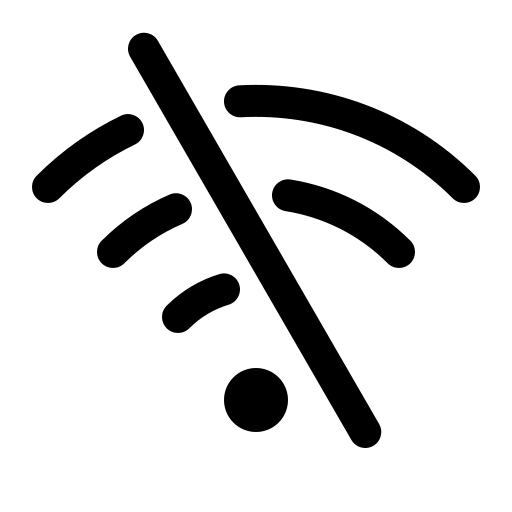
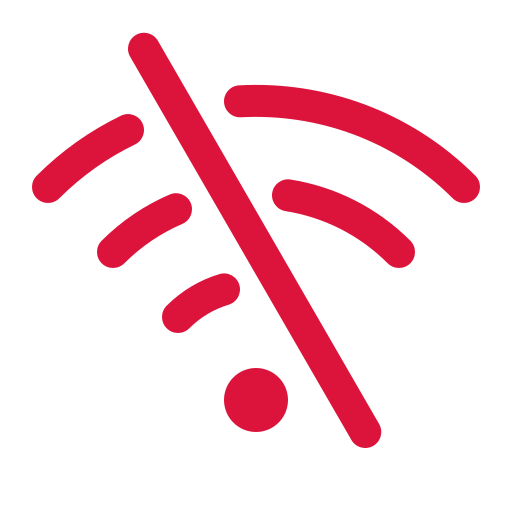
caralhada de coisa eu acho
só cor na verdade, e mentira esse negocio :P

diff --git a/src/assets/js/main.js b/src/assets/js/main.js
@@ -161,12 +161,18 @@ function updateHeader() {
 
     const bombaTexto = document.getElementById("estadoBomba");
     bombaTexto.innerText = (data["bomba_acionada"] ? "Ligada" : "Desligada");
+    bombaTexto.classList.remove("offlineText"); bombaTexto.classList.remove("onlineText");
+    bombaTexto.classList.add(data["bomba_acionada"] ? "onlineText" : "offlineText");
 
     const statusTexto = document.getElementById("statusConexao");
     const statusImage = document.getElementById("conexaoImg");
     statusTexto.innerText = (online ? "Você está online!" : "Você está offline.");
     statusImage.src = (online ? "assets/img/wifi.png" : "assets/img/no-wifi.png");
     statusImage.alt = (online ? "Ícone online" : "Ícone offline");
+    if (online) {
+        statusTexto.classList.remove("offlineText");
+        statusTexto.classList.add("onlineText");
+    }
 }
 
 /**
@@ -219,12 +225,12 @@ function createGraph() {
             datasets: [{
                 label: 'Umidade',
                 data: [],
-                borderColor: 'rgb(100, 149, 237)',
-                backgroundColor: 'rgba(33, 22, 249, 0.1)',
+                borderColor: 'rgb(0, 191, 255)',
+                backgroundColor: 'rgba(0, 191, 255, 0.1)',
                 tension: 0.4,
                 fill: true,
                 borderWidth: 3,
-                yAxisID: "umidY"
+                yAxisID: "umidY",
             }]
         },
         options: {
@@ -252,7 +258,7 @@ function createGraph() {
                                 content: "Umidade Mínima",
                                 display: false
                             },
-                            borderColor: "rgba(100, 149, 237, 0.8)",
+                            borderColor: "rgba(0, 191, 255, 0.4)",
                             borderDash: [10, 5],
                             borderWidth: 4,
                             pointRadius: 0,
@@ -275,7 +281,7 @@ function createGraph() {
                                 content: "Umidade Máxima",
                                 display: false
                             },
-                            borderColor: "rgba(100, 149, 237, 0.8)",
+                            borderColor: "rgba(0, 191, 255, 0.4)",
                             borderDash: [10, 5],
                             borderWidth: 4,
                             pointRadius: 0,
@@ -319,6 +325,7 @@ function updateGraph() {
     for (let i = 0; i < (data.length - 1); i++) {
         graph.data.datasets[i].data = data[i+1];
     }
+
     graph.update("none");
 }
 

diff --git a/src/index.html b/src/index.html
@@ -4,7 +4,7 @@
 		<meta charset="UTF-8">
 		<meta http-equiv="X-UA-Compatible" content="IE=edge">
 		<meta name="viewport" content="width=device-width, initial-scale=1.0">
-		<title>cleber</title>
+		<title>Smart Farm</title>
 
 		<script src="https://cdn.jsdelivr.net/npm/chart.js"></script>
 		<script src="https://cdn.jsdelivr.net/npm/chartjs-plugin-annotation"></script>
@@ -17,16 +17,15 @@
 		<main>
 			<header class="window lado-a-lado">
 				<div class="disableParagraphMargin">
-					<h3 id="statusConexao">Você está offline.</h3>
+					<h3 id="statusConexao" class="offlineText">Você está offline.</h3>
 					<img id="conexaoImg" src="assets/img/no-wifi.png" width="64" alt="Ícone de Offline">
 				</div>
 				<div class="disableParagraphMargin lado-a-lado2">
 					<img src="assets/img/temperature.png" alt="Ícone de Temperatura" width="64">
 					
-					<div>
+					<div class="offlineText">
 						<h3>Temperatura</h3>
 						<div class="headerThing">
-							
 							<h4 id="temperaturaTexto">--</h4><p>°C</p>
 						</div>
 					</div>
@@ -34,7 +33,7 @@
 				<div class="disableParagraphMargin lado-a-lado2">
 					<img src="assets/img/humidity.png" alt="Ícone de Umidade" width="64">
 
-					<div>
+					<div class="blueText">
 						<h3>Umidade</h3>
 						<div class="headerThing">
 							<h4 id="umidadeTexto">--</h4><p>%</p>
@@ -45,7 +44,7 @@
 					<img src="assets/img/pump.png" alt="Ícone da Bomba d'água" width="64">
 
 					<div>
-						<h3>Bomba</h3>
+						<h3 class="blueText">Bomba</h3>
 						<div class="headerThing">
 							<h4 id="estadoBomba">--</h4>
 						</div>

diff --git a/src/assets/css/styles.css b/src/assets/css/styles.css
@@ -122,3 +122,19 @@ header {
     font-size: 1.5rem;
     margin: 0;
 }
+
+.offlineText {
+    color: #DC143C;
+}
+
+.onlineText {
+    color: #3CB371;
+}
+
+.blueText {
+    color: #00BFFF;
+}
+
+.darkBlueText {
+    color: #191970;
+}
